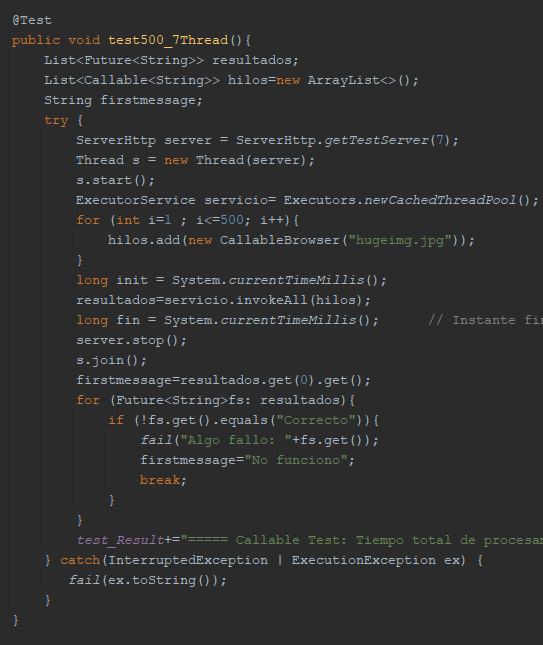
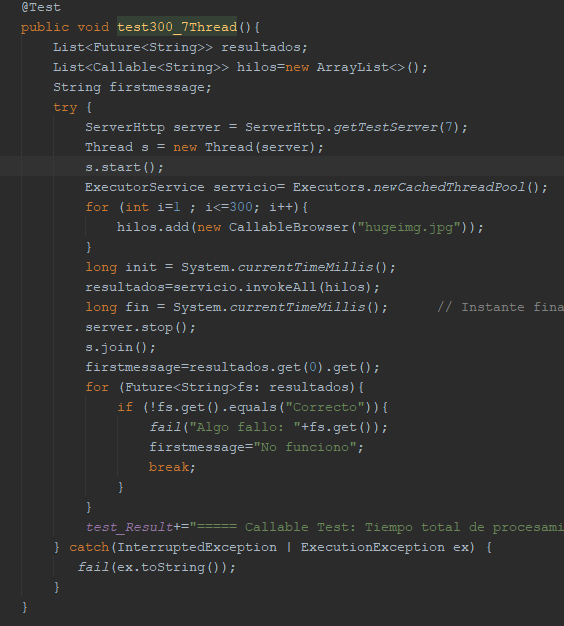
Terminado (?)

diff --git a/src/test/java/edu/escuelaing/arsw/tallerconcurrencia/http/CallableTest.java b/src/test/java/edu/escuelaing/arsw/tallerconcurrencia/http/CallableTest.java
@@ -16,7 +16,7 @@ import org.junit.Test;
 import static org.junit.Assert.*;
 
 /**
- * Se hicieron pruebas de 200 y 500 Browser y con un servidor atentiendo
+ * Se hicieron pruebas de 300 Browser y con un servidor atentiendo
  * con 1 o 7 hilos.
  * @author J. Eduardo Arias
  */

diff --git a/README.md b/README.md
@@ -95,20 +95,25 @@ Al igual que el taller anterior ([Taller Networking](https://github.com/AriasAEn
 
 [![CircleCI](https://circleci.com/gh/AriasAEnima/Taller-Concurrencia.svg?style=svg)](https://circleci.com/gh/AriasAEnima/Taller-Concurrencia)
 
-Se realizo dos clases de pruebas una utilizando Runnables como Browsers y otra como Callables. (Son muy parecidas).
+Se realizo pruebas una utilizando Callables como Browsers (300).
 
-La diferencia entre estas es como logre capturar el posible error (con una bandera o con un Array de Future <"String"> ), en las Runnables les di start manualmente y en las Callables utilice un invokeAll (newCachedThreadPool) para iniciarlos.
+Logre capturar el posible error con un Array de Future <"String">, y utilice un invokeAll (newCachedThreadPool) para iniciarlos.
 
-Los test consisten en cambiar el numero de Browser (200 o 500) pidiendo como recurso una imagen de 6MB y cambiar los hilos que atienden en el Server (1 o 7); También verificar que si el Servidor da una respuesta negativa (por que no se encuentra el recurso o no se soporta), y una prueba pequeña podemos observar la respuesta del servidor de 3 tipos de archivos, (jpg, html y js).
+Los test consisten pedir como recurso una imagen de 6MB y cambiar los hilos que atienden en el Server (1 o 7); También verificar que si el Servidor da una respuesta negativa (por que no se encuentra el recurso o no se soporta), y una prueba pequeña podemos observar la respuesta del servidor de 3 tipos de archivos, (jpg, html y js).
 
 Opte por que los browser no imprimieran la respuesta (excepto en la prueba pequeña), debido a que quería verificar la diferencia de tiempo del servidor cambiando los hilos que atendían, no de los browser (clientes) para leer la respuesta.
 
-
 Aqui podemos el estilo de una prueba Callable:
 
-En este ejemplo el servidor tendrá  7 hilos para atender 500 peticiones.
+En este ejemplo el servidor tendrá  7 hilos para atender 300 peticiones.
 
 ![Test](imagenesgit/test.PNG)
+
+Los resultados en CircleCI:
+
+![Circle](imagenesgit/circleci.PNG)
+
+Notamos una diferencia notable entre 7 y 1 hilo en el servidor de CircleCI.
 
 ## Comparando Hilos en el Server:
 
